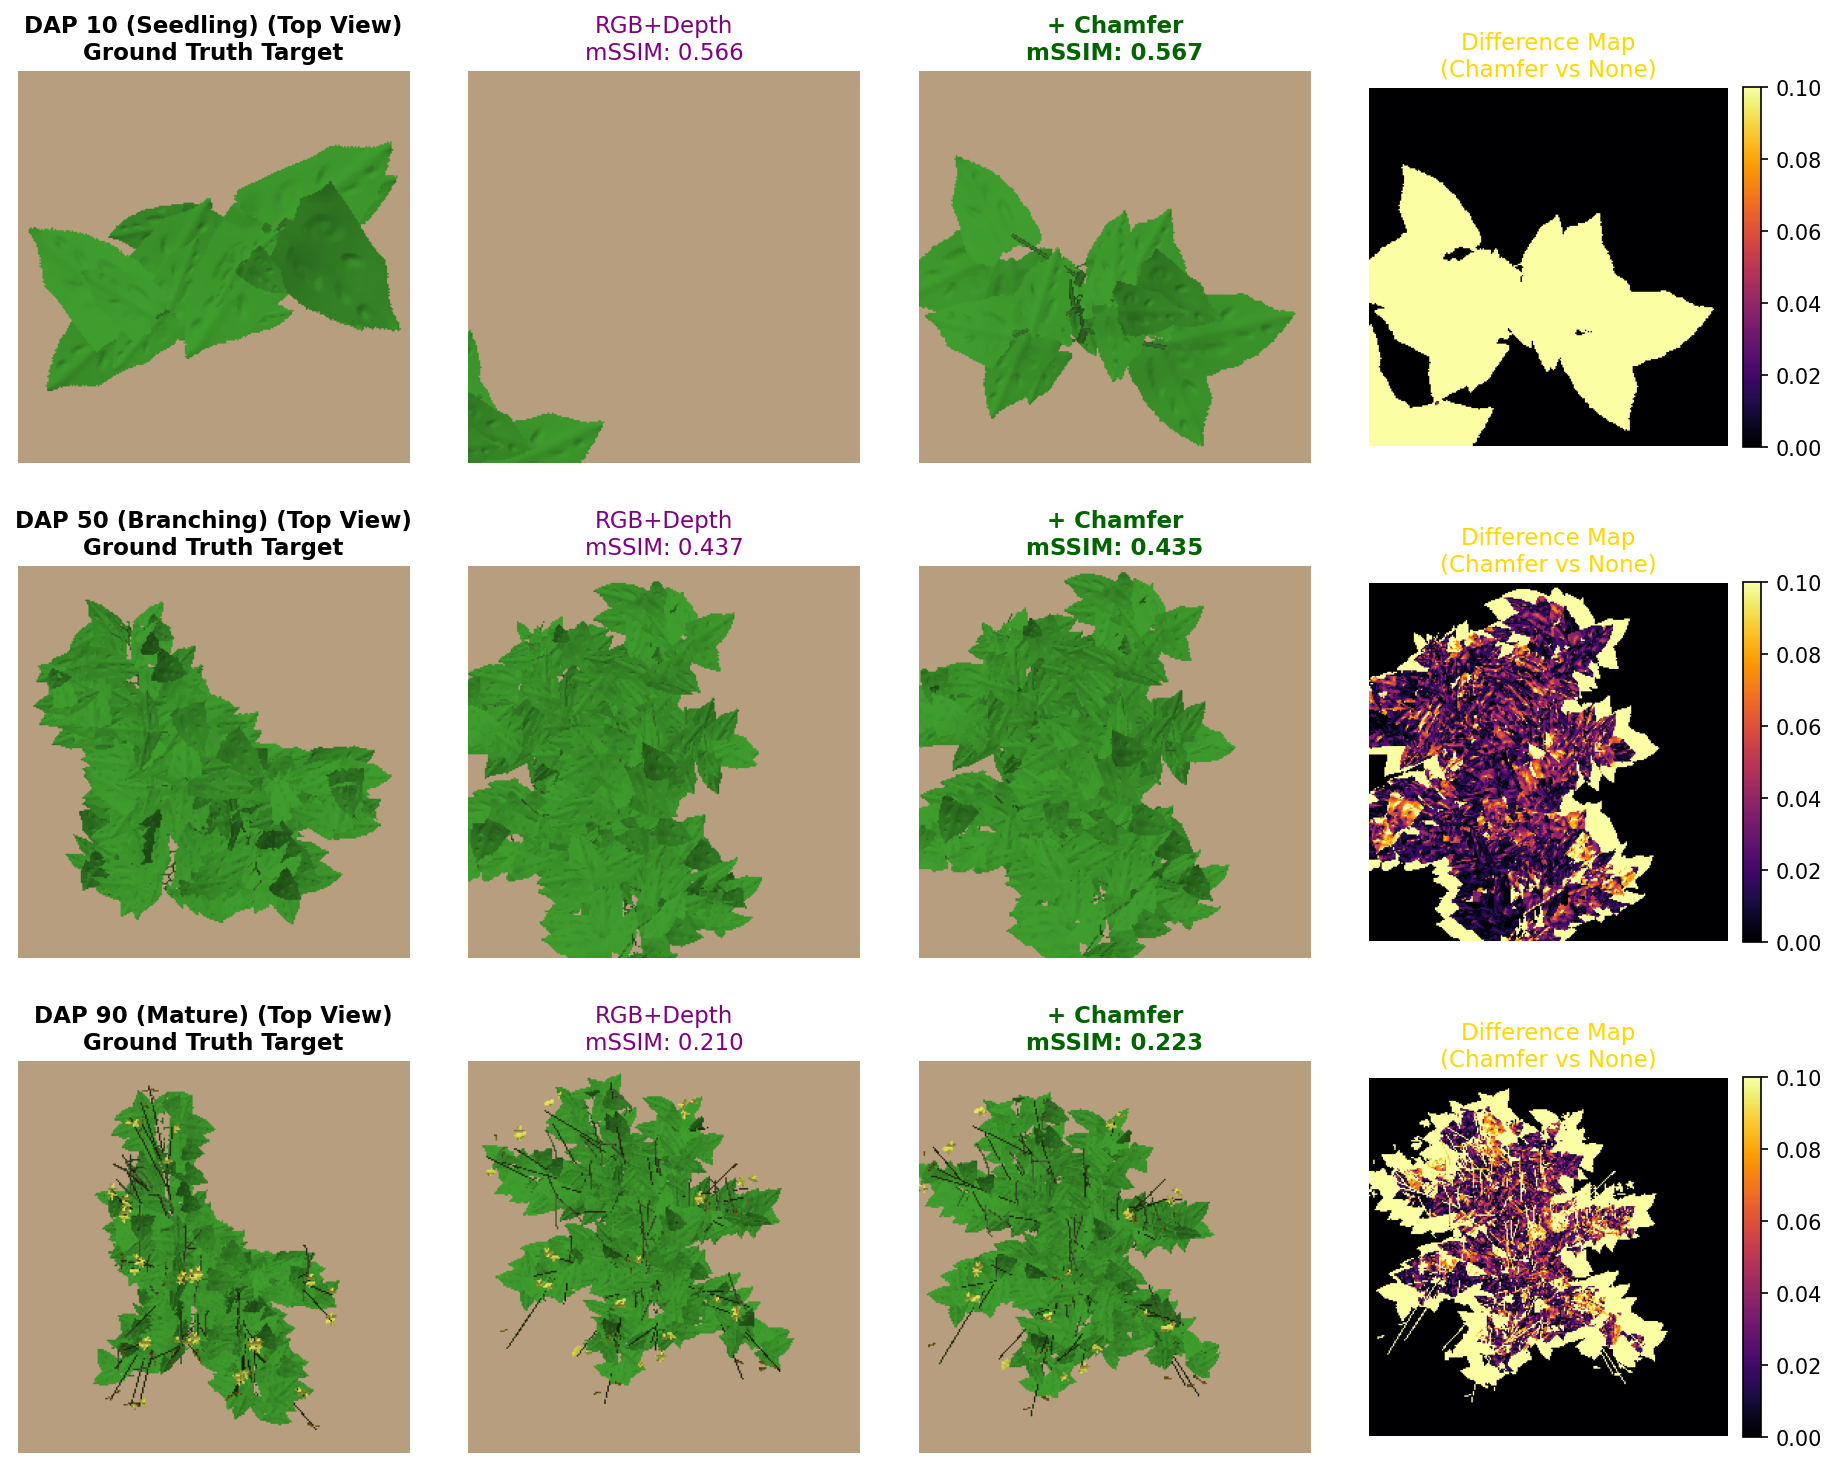
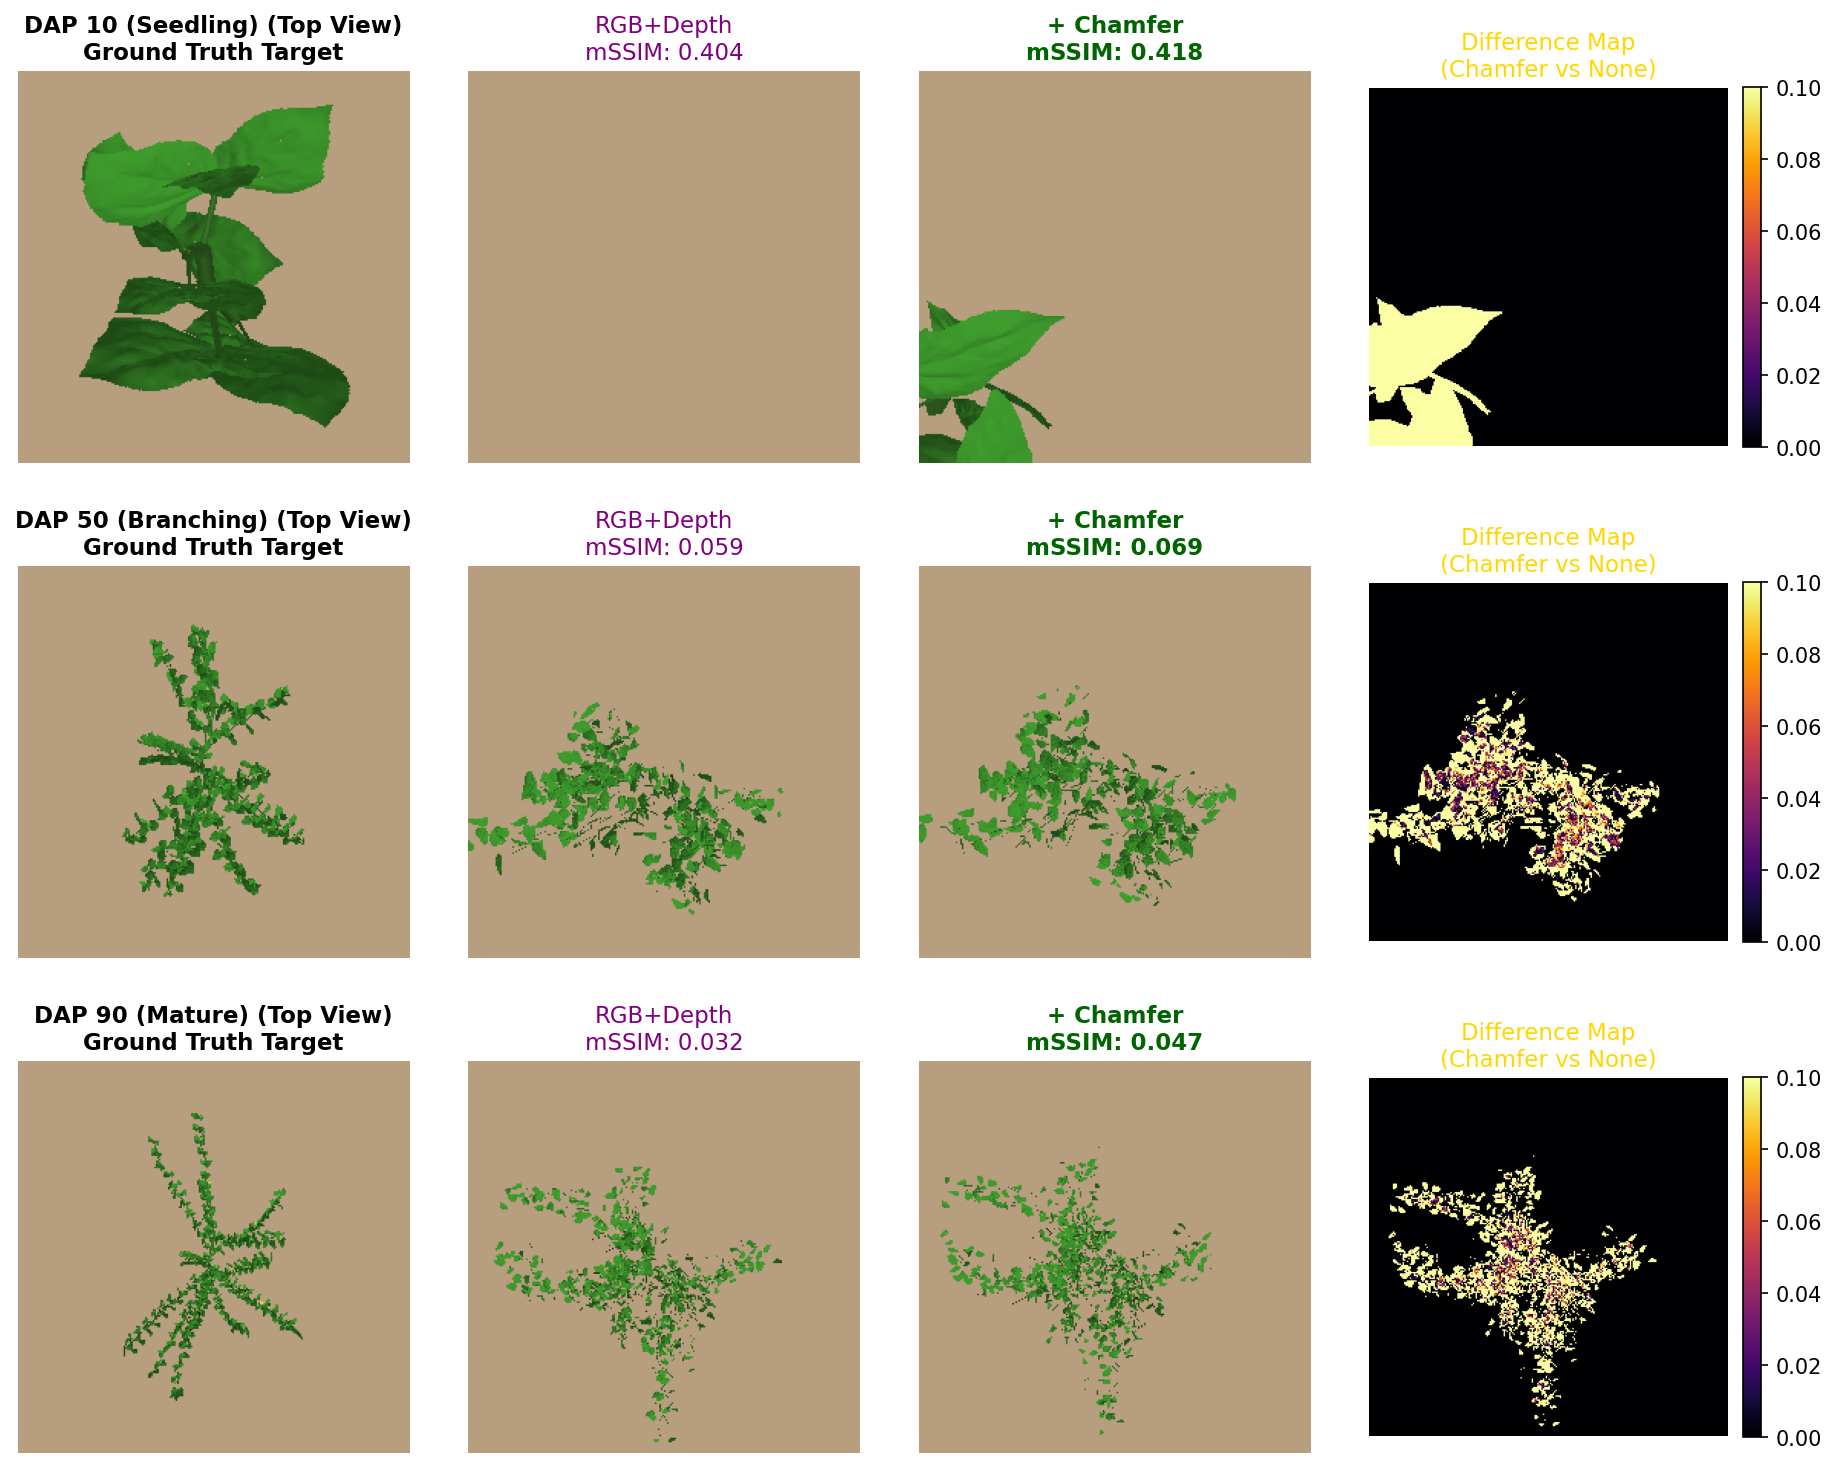
fix: regenerate fig8_multimodal_depth_mask and restore canonical leaf mesh rendering

diff --git a/diffusion_based/eval/generate_part_report.py b/diffusion_based/eval/generate_part_report.py
@@ -104,7 +104,10 @@ def run_direct_opt(
     delta_rot_6d = torch.zeros((N, 6), device=device, requires_grad=True)
     delta_scale = torch.zeros((N, 3), device=device, requires_grad=True)
     delta_base = torch.zeros((N, 3), device=device, requires_grad=True)
-    opt_exist = part_init[:, P_COL_EXISTENCE].clone().detach().requires_grad_(True)
+    # Initialize existence logit so sigmoid(logit) = stored existence.
+    # (The stored tensor holds existence directly in [0,1], not a logit.)
+    exist_init = part_init[:, P_COL_EXISTENCE].clamp(1e-3, 1 - 1e-3).clone().detach()
+    opt_exist = torch.logit(exist_init).requires_grad_(True)
 
     optimizer = torch.optim.AdamW([
         {"params": [delta_yaw], "lr": lr * 1.5},
@@ -165,8 +168,10 @@ def run_direct_opt(
         loss = loss_rgb
         loss_depth = torch.tensor(0.0, device=device)
         if "depth" in mode:
-            fg_union = pred_mask | target_mask
-            loss_depth = affine_invariant_depth_loss(pred_raw_depth, target_raw_depth, mask=fg_union)
+            # Use the intersection of pred & target foreground so the affine
+            # depth loss is not skewed by target-only pixels where pred=0.
+            fg_inter = pred_mask & target_mask
+            loss_depth = affine_invariant_depth_loss(pred_raw_depth, target_raw_depth, mask=fg_inter)
             loss = loss + 0.5 * loss_depth
         # Structural regularization: keep organ bases from drifting far from the init
         # (prevents the optimizer from scattering organs and destroying the plant).
@@ -223,6 +228,20 @@ def _load_target_init_pair(renderer, device, tgt_rel, init_rel):
     tgt_arr = PlantOrganArray.from_xml_file(os.path.join(repo_root, tgt_rel))
     tgt_part = tgt_arr.to_part_tensor(device=device)
 
+    # Load the original Helios C++ render for the target (seed00).
+    helios_np = None
+    tgt_xml = os.path.join(repo_root, tgt_rel)
+    tgt_prefix = os.path.basename(tgt_xml).replace("_plant_0000.xml", "")
+    from PIL import Image
+    for suffix in ("_rad.jpeg", "_vis.jpeg"):
+        cand = os.path.join(os.path.dirname(tgt_xml), tgt_prefix + suffix)
+        if os.path.exists(cand):
+            try:
+                helios_np = np.array(Image.open(cand).convert("RGB")) / 255.0
+            except Exception:
+                helios_np = None
+            break
+
     tgt_mesh = renderer.geo_builder.build_mesh_from_part_array(
         tgt_part, template_organ_array=tgt_arr, device=device, use_kinematics_tree=False
     )
@@ -251,6 +270,7 @@ def _load_target_init_pair(renderer, device, tgt_rel, init_rel):
         "tgt_arr": tgt_arr, "tgt_part": tgt_part, "tgt_rgb": tgt_out["rgb"],
         "tgt_depth": tgt_out["depth"], "tgt_raw_depth": tgt_out["raw_depth"],
         "tgt_mask": tgt_out["mask"], "tgt_np": tgt_out["rgb"].permute(1, 2, 0).cpu().numpy().clip(0, 1),
+        "helios_np": helios_np,
         "init_arr": init_arr, "init_np": init_rgb.permute(1, 2, 0).cpu().numpy().clip(0, 1),
         "cam_bounds": cam_bounds,
     }
@@ -262,7 +282,7 @@ def _load_target_init_pair(renderer, device, tgt_rel, init_rel):
 
 def figure_3_direct_opt_multi_dap(pairs, renderer, device, assets_dir, steps=35):
     print("Generating Figure 3: Direct Optimization Multi-DAP Panel...")
-    fig, axes = plt.subplots(3, 6, figsize=(20, 12))
+    fig, axes = plt.subplots(3, 7, figsize=(22, 12))
     plt.subplots_adjust(wspace=0.12, hspace=0.28)
     metrics = {"dap": [], "init_ssim": [], "init_iou": [], "opt_ssim": [], "opt_iou": []}
 
@@ -282,24 +302,33 @@ def figure_3_direct_opt_multi_dap(pairs, renderer, device, assets_dir, steps=35)
             spec["cam_bounds"], renderer, device, mode="rgb_depth", steps=steps, lr=0.04,
         )
 
-        axes[row, 0].imshow(spec["tgt_np"])
-        axes[row, 0].set_title(f"{spec['title']} (Top View)\nGround Truth RGB", fontsize=11, fontweight="bold")
+        # Col 0: Original Helios C++ render
+        if spec.get("helios_np") is not None:
+            axes[row, 0].imshow(spec["helios_np"])
+            axes[row, 0].set_title(f"{spec['title']}\nHelios C++ Original", fontsize=11, fontweight="bold")
+        else:
+            axes[row, 0].text(0.5, 0.5, "No Helios image", ha='center', va='center', color='red', fontsize=10, transform=axes[row, 0].transAxes)
+            axes[row, 0].set_title(f"{spec['title']}\nHelios C++", fontsize=11, fontweight="bold")
         axes[row, 0].axis("off")
-        axes[row, 1].imshow(_depth_colormap(spec["tgt_depth"].cpu().numpy()))
-        axes[row, 1].set_title("Ground Truth Depth\n(closer = brighter)", fontsize=11, fontweight="bold")
+
+        axes[row, 1].imshow(spec["tgt_np"])
+        axes[row, 1].set_title(f"Ground Truth RGB", fontsize=11, fontweight="bold")
         axes[row, 1].axis("off")
-        axes[row, 2].imshow(spec["init_np"])
-        axes[row, 2].set_title(f"Initial Template Seed\nmSSIM: {init_ssim:.3f} | IoU: {init_iou:.2f}", fontsize=11)
+        axes[row, 2].imshow(_depth_colormap(spec["tgt_depth"].cpu().numpy()))
+        axes[row, 2].set_title("Ground Truth Depth\n(closer = brighter)", fontsize=11, fontweight="bold")
         axes[row, 2].axis("off")
-        axes[row, 3].imshow(_depth_colormap(init_depth))
-        axes[row, 3].set_title("Initial Seed Depth", fontsize=11)
+        axes[row, 3].imshow(spec["init_np"])
+        axes[row, 3].set_title(f"Initial Template Seed\nmSSIM: {init_ssim:.3f} | IoU: {init_iou:.2f}", fontsize=11)
         axes[row, 3].axis("off")
-        axes[row, 4].imshow(opt_rgb)
-        axes[row, 4].set_title(f"16D RGB+Depth Opt\nmSSIM: {m['ssim']:.3f} | IoU: {m['iou']:.2f}", fontsize=11, color="navy", fontweight="bold")
+        axes[row, 4].imshow(_depth_colormap(init_depth))
+        axes[row, 4].set_title("Initial Seed Depth", fontsize=11)
         axes[row, 4].axis("off")
-        axes[row, 5].imshow(_depth_colormap(opt_depth))
-        axes[row, 5].set_title("Optimized Depth", fontsize=11, color="navy", fontweight="bold")
+        axes[row, 5].imshow(opt_rgb)
+        axes[row, 5].set_title(f"16D RGB+Depth Opt\nmSSIM: {m['ssim']:.3f} | IoU: {m['iou']:.2f}", fontsize=11, color="navy", fontweight="bold")
         axes[row, 5].axis("off")
+        axes[row, 6].imshow(_depth_colormap(opt_depth))
+        axes[row, 6].set_title("Optimized Depth", fontsize=11, color="navy", fontweight="bold")
+        axes[row, 6].axis("off")
 
         metrics["dap"].append(spec["title"])
         metrics["init_ssim"].append(init_ssim)

diff --git a/diffusion_based/models/helios_pytorch_geometry.py b/diffusion_based/models/helios_pytorch_geometry.py
@@ -513,11 +513,7 @@ def generate_cone_tube_mesh_torch(
 
 SPECIES_CONFIG: Dict[str, Dict[str, Any]] = {
     "cowpea": {
-        "leaf_obj": "CowpeaLeaf_tip_highres.obj",
-        "leaf_tip_obj": "CowpeaLeaf_tip_highres.obj",
-        "leaf_left_obj": "CowpeaLeaf_left_highres.obj",
-        "leaf_right_obj": "CowpeaLeaf_right_highres.obj",
-        "leaf_unifoliate_obj": "CowpeaLeaf_unifoliate.obj",
+        "leaf_obj": "CowpeaLeaf_unifoliate.obj",
         "leaf_aspect_ratio": 0.65,
         "flower_open_obj": "CowpeaFlower_open_yellow.obj",
         "flower_closed_obj": "CowpeaFlower_closed_yellow.obj",
@@ -532,11 +528,7 @@ SPECIES_CONFIG: Dict[str, Dict[str, Any]] = {
         "color_fruit": torch.tensor([0.299629, 0.400454, 0.209546]),
     },
     "bean": {
-        "leaf_obj": "BeanLeaf_tip.obj",
-        "leaf_tip_obj": "BeanLeaf_tip.obj",
-        "leaf_left_obj": "BeanLeaf_left.obj",
-        "leaf_right_obj": "BeanLeaf_right.obj",
-        "leaf_unifoliate_obj": "BeanLeaf_unifoliate.obj",
+        "leaf_obj": "BeanLeaf_unifoliate.obj",
         "leaf_aspect_ratio": 0.65,
         "flower_open_obj": "BeanFlower_open_white.obj",
         "flower_closed_obj": "BeanFlower_closed_white.obj",
@@ -787,24 +779,12 @@ class HeliosPlantGeometryBuilder:
                     v_tmpl, f_tmpl, n_tmpl = sorghum_leaf_tmpl
                     v_lf_raw = v_tmpl
                     f_lf_b = f_tmpl
-                elif self.use_generic_leaves or len(leaflet_tmpls) == 0:
+                elif self.use_generic_leaves or "leaf_obj" not in leaflet_tmpls:
                     v_tmpl, f_tmpl, n_tmpl = generic_leaf_tmpl
                     v_lf_raw = v_tmpl
                     f_lf_b = f_tmpl
                 else:
-                    # Select appropriate leaflet mesh
-                    target_key = "leaf_obj"
-                    if leaf_sub_idx == 0 and "leaf_left_obj" in leaflet_tmpls:
-                        target_key = "leaf_left_obj"
-                    elif leaf_sub_idx == 1 and "leaf_tip_obj" in leaflet_tmpls:
-                        target_key = "leaf_tip_obj"
-                    elif leaf_sub_idx == 2 and "leaf_right_obj" in leaflet_tmpls:
-                        target_key = "leaf_right_obj"
-
-                    if target_key in leaflet_tmpls:
-                        v_lf_raw, f_lf_b, n_tmpl = leaflet_tmpls[target_key]
-                    else:
-                        v_lf_raw, f_lf_b, n_tmpl = leaflet_tmpls.get("leaf_obj", generic_leaf_tmpl)
+                    v_lf_raw, f_lf_b, n_tmpl = leaflet_tmpls["leaf_obj"]
 
                 v_lf_b = v_lf_raw * lf_scale
                 v_lf = (R @ v_lf_b.T).T + base

diff --git a/diffusion_based/eval/generate_multimodal_outputs.py b/diffusion_based/eval/generate_multimodal_outputs.py
@@ -37,15 +37,15 @@ EXACT_GT_DIR = os.path.join(repo_root, "Digital-Crops", "projects", "syntheticda
 
 PLANTS = [
     ("DAP 10\n(Seedling)",
-     "dataset/helios_data/cowpea_dap010_seed00_caz000_h1.0_se045_saz180_0000_plant_0000.xml",
+     os.path.join(EXACT_GT_DIR, "rad_dap010_0000_plant_0000.xml"),
      os.path.join(EXACT_GT_DIR, "rad_dap010_0000_rad.jpeg"),
      os.path.join(EXACT_GT_DIR, "rad_dap010_0000_masks.json")),
     ("DAP 50\n(Branching)",
-     "dataset/helios_data/cowpea_dap050_seed00_caz000_h1.0_se045_saz180_0000_plant_0000.xml",
+     os.path.join(EXACT_GT_DIR, "rad_dap050_0000_plant_0000.xml"),
      os.path.join(EXACT_GT_DIR, "rad_dap050_0000_rad.jpeg"),
      os.path.join(EXACT_GT_DIR, "rad_dap050_0000_masks.json")),
     ("DAP 90\n(Mature)",
-     "dataset/helios_data/cowpea_dap090_seed00_caz000_h1.0_se045_saz180_0000_plant_0000.xml",
+     os.path.join(EXACT_GT_DIR, "rad_dap090_0000_plant_0000.xml"),
      os.path.join(EXACT_GT_DIR, "rad_dap090_0000_rad.jpeg"),
      os.path.join(EXACT_GT_DIR, "rad_dap090_0000_masks.json")),
 ]
@@ -76,7 +76,10 @@ ORGAN_META = {
 renderer = HeliosPyTorchRenderer(image_size=IMG_SIZE)
 
 def load_plant(xml_path):
-    full = os.path.join(repo_root, xml_path)
+    if not os.path.isabs(xml_path):
+        full = os.path.join(repo_root, xml_path)
+    else:
+        full = xml_path
     if not os.path.exists(full):
         return None, None
     arr = PlantOrganArray.from_xml_file(full)
